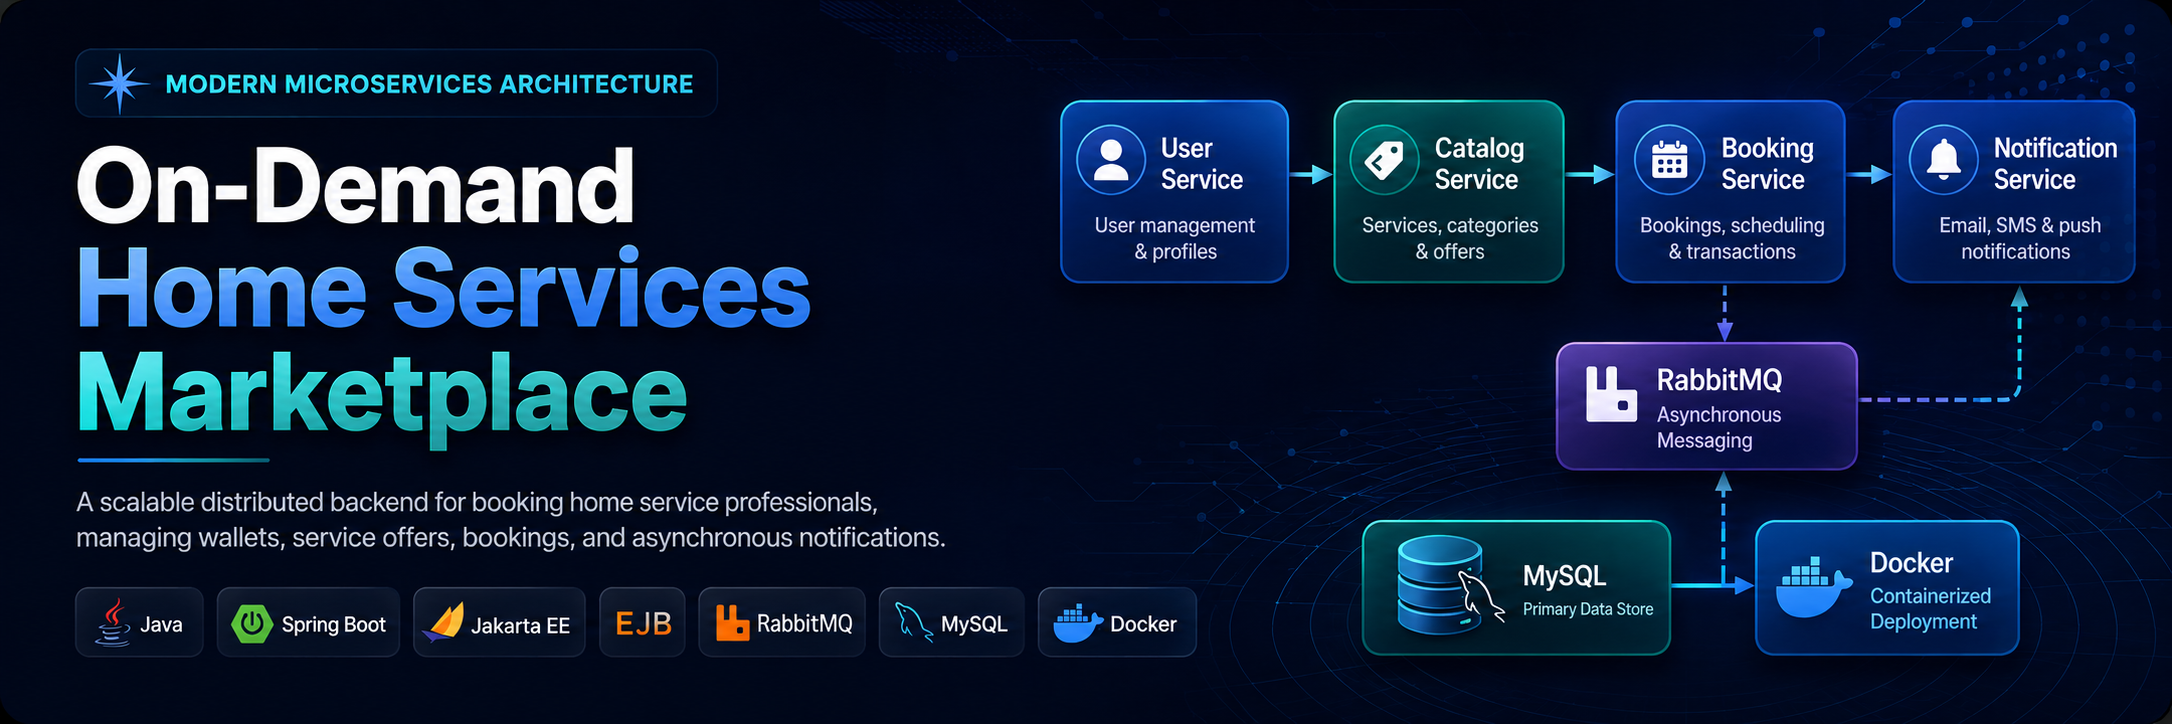
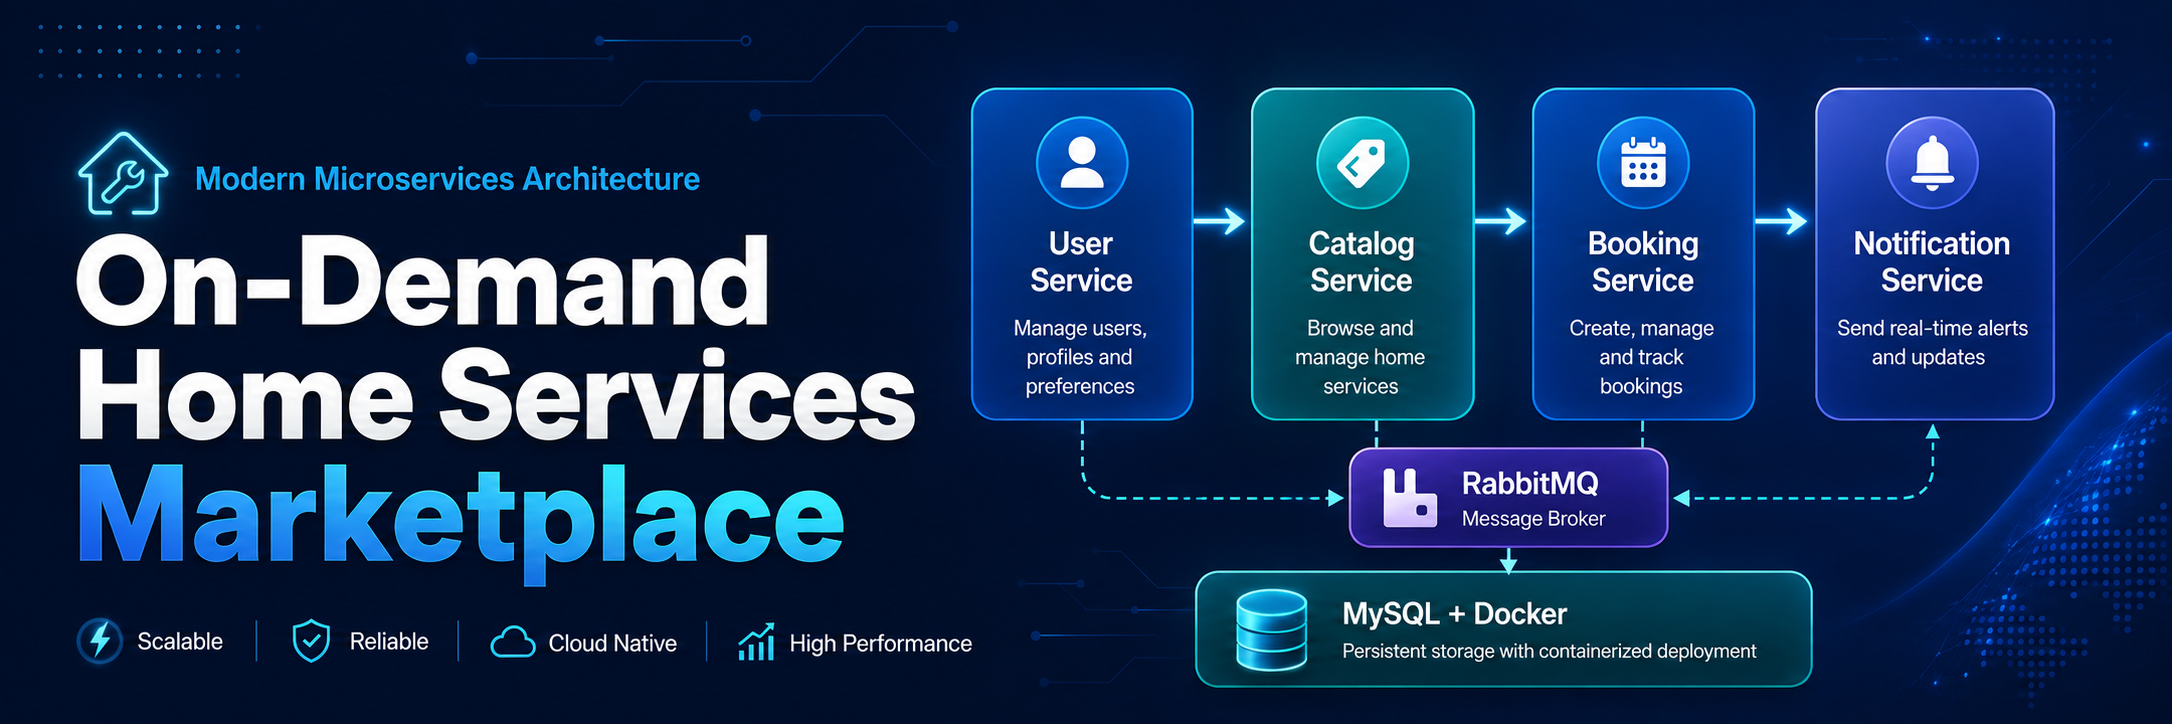
Update portfolio content

diff --git a/styles.css b/styles.css
@@ -956,3 +956,108 @@ body.light .mini-link{
   background:rgba(17,143,139,.09);
   border-color:rgba(17,143,139,.22);
 }
+
+
+
+
+
+/*=========================================================================*/
+/* =========================
+   Mobile Projects Fix
+========================= */
+
+@media (max-width: 600px) {
+
+  #projects .container {
+    padding-left: 14px;
+    padding-right: 14px;
+  }
+
+  /* Card */
+  .project-card {
+    width: 100%;
+    border-radius: 18px;
+  }
+
+  /* Image Area */
+  .project-img {
+    width: 100%;
+    height: 190px;
+    padding: 0;
+    background: #071426;
+    overflow: hidden;
+  }
+
+  .project-img img {
+    width: 100%;
+    height: 100%;
+    object-fit: cover;
+    object-position: center;
+    display: block;
+  }
+
+  /* Content */
+  .project-body {
+    padding: 18px 16px 20px;
+  }
+
+  .project-body h3 {
+    font-size: 24px;
+    line-height: 1.25;
+    margin-bottom: 10px;
+  }
+
+  .project-body p {
+    font-size: 15px;
+    line-height: 1.6;
+    margin-bottom: 14px;
+  }
+
+  /* Technologies */
+  .project-body .chips {
+    gap: 8px;
+  }
+
+  .project-body .chip {
+    font-size: 12px;
+    padding: 7px 10px;
+  }
+
+  /* Project buttons */
+  .project-links {
+    display: flex;
+    gap: 8px;
+    flex-wrap: wrap;
+    margin-top: 14px;
+  }
+
+  .project-links .mini-link {
+    padding: 9px 12px;
+    font-size: 13px;
+  }
+
+  /* Carousel arrows */
+  #projects .carousel-btn {
+    width: 42px;
+    height: 42px;
+    top: 95px;
+    transform: none;
+  }
+
+  #projects .carousel-btn:hover {
+    transform: scale(1.05);
+  }
+
+  #projects .carousel-btn.left {
+    left: 6px;
+  }
+
+  #projects .carousel-btn.right {
+    right: 6px;
+  }
+
+  /* Dots */
+  #projects .dots {
+    margin-top: 12px;
+  }
+}
